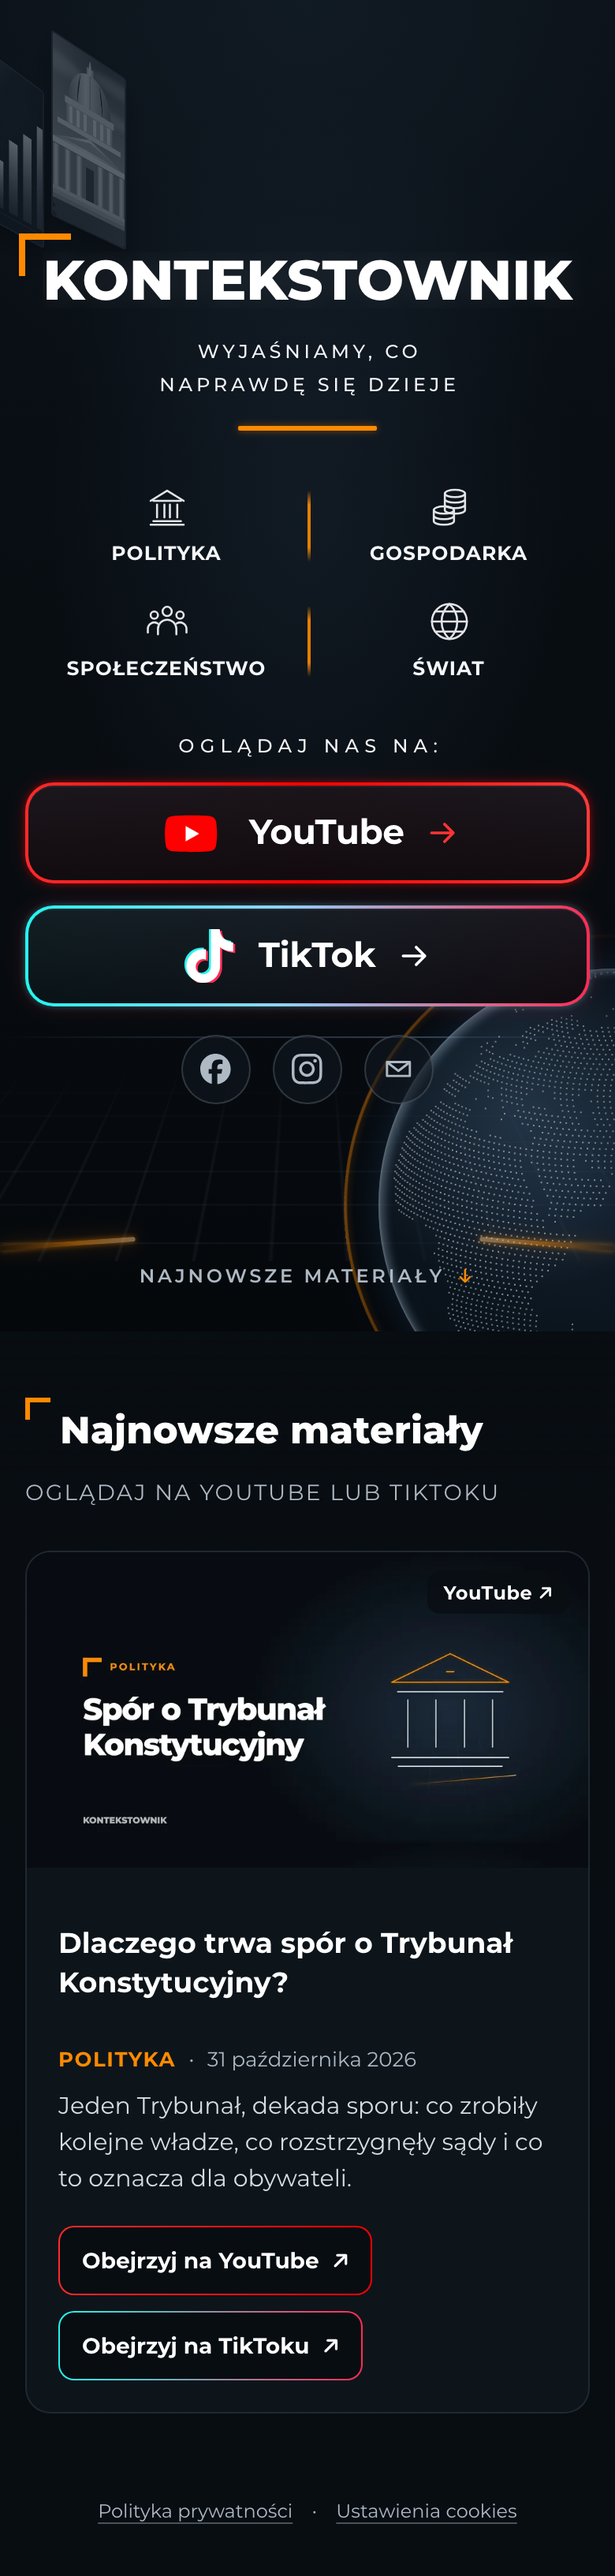
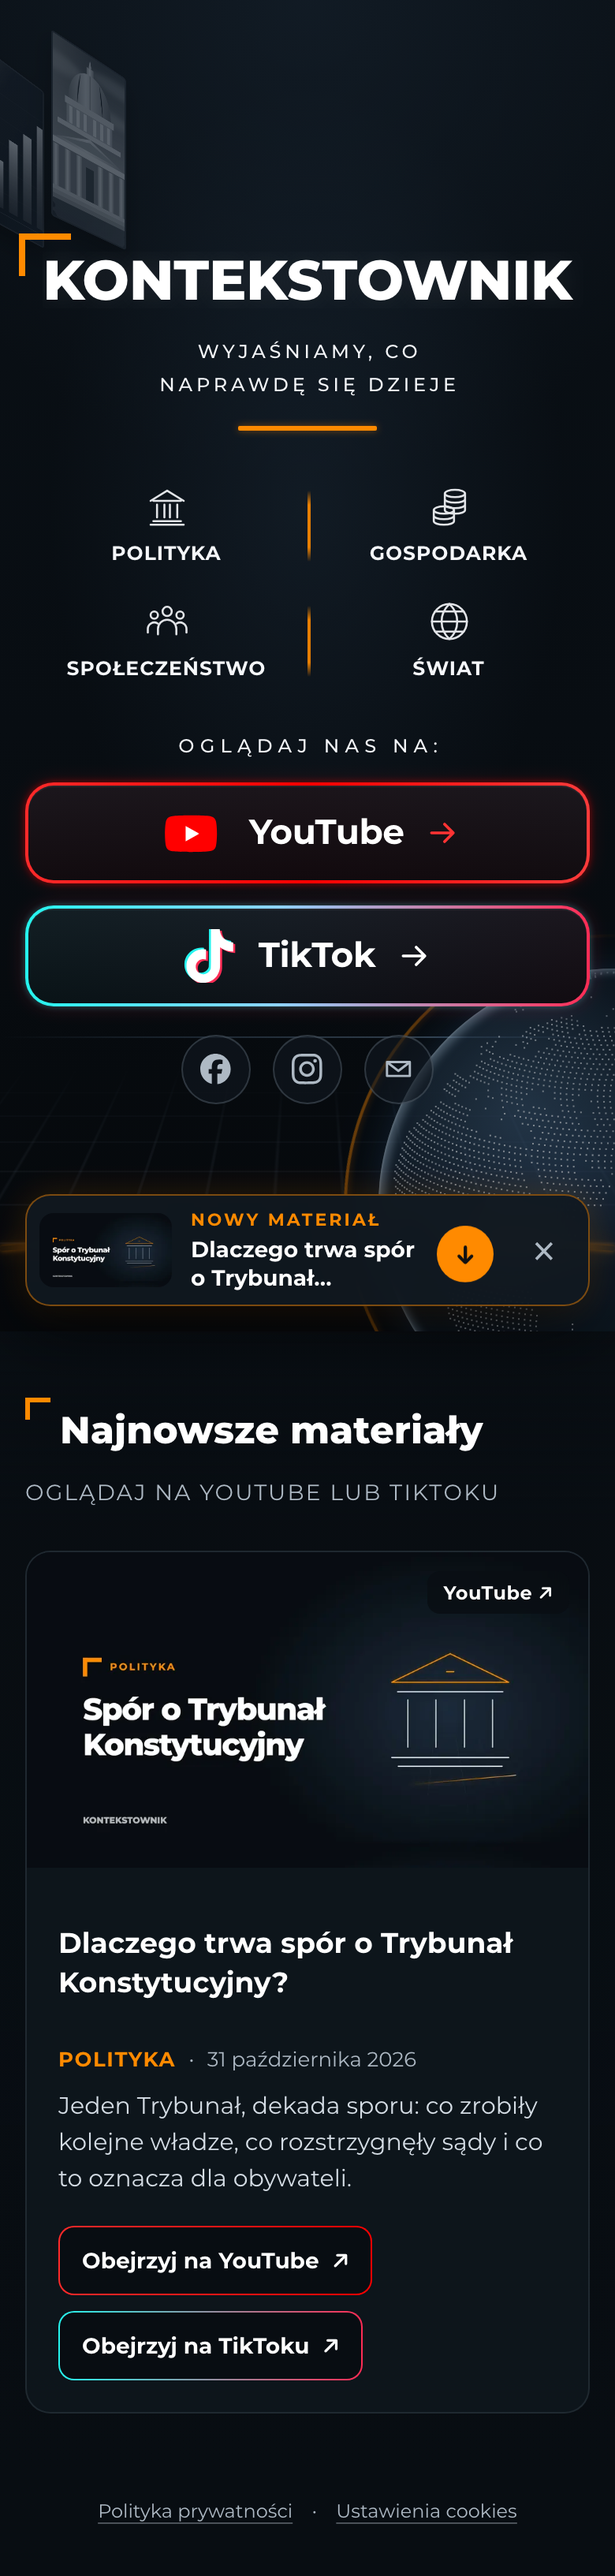
Przyklejony pasek „Nowy materiał ↓” (po decyzji o cookies, znika przy sekcji, × do końca wizyty) zamiast małej strzałki

Changed region(s): [[0.3077, 0.4685, 0.9538, 0.5309], [0.0308, 0.4685, 0.2769, 0.4997]]

diff --git a/src/styles/materials.css b/src/styles/materials.css
@@ -1,26 +1,62 @@
 /* Sekcja „Najnowsze materiały”: karty z okładkami, linki do platform, bez odtwarzania na stronie. */
 .visually-hidden { position: absolute; width: 1px; height: 1px; overflow: hidden; clip: rect(0 0 0 0); white-space: nowrap; }
 
-.scroll-hint {
-  position: absolute;
-  bottom: 44px;
+/* Przyklejony pasek „Nowy materiał ↓” (new-pill.js), pokazywany po zamknięciu banera zgody. */
+.new-pill {
+  position: fixed;
+  z-index: 9;
   left: 50%;
-  transform: translateX(-50%);
-  display: inline-flex;
-  gap: 8px;
+  bottom: max(16px, env(safe-area-inset-bottom));
+  transform: translate(-50%, 0);
+  display: flex;
   align-items: center;
-  font-size: 12px;
-  font-weight: 600;
-  letter-spacing: 0.24em;
-  text-transform: uppercase;
-  color: var(--muted);
-  padding: 10px 6px;
-  white-space: nowrap;
+  gap: 4px;
+  width: min(460px, calc(100vw - 32px));
+  padding: 6px;
+  text-align: left;
+  border-radius: 16px;
+  background: rgb(16 24 32 / 0.92);
+  border: 1px solid rgb(255 138 0 / 0.45);
+  box-shadow: 0 16px 40px rgb(0 0 0 / 0.55), 0 0 22px rgb(255 138 0 / 0.18);
+  -webkit-backdrop-filter: blur(10px);
+  backdrop-filter: blur(10px);
+  transition: opacity 0.35s, transform 0.45s var(--ease-out);
 }
-@media (max-width: 640px) { .scroll-hint { bottom: 18px; letter-spacing: 0.16em; } }
-.scroll-hint span { color: var(--orange); animation: hint 2.4s ease-in-out infinite; }
-@keyframes hint { 50% { transform: translateY(4px); } }
-.scroll-hint:hover { color: var(--white); }
+.new-pill[hidden] { display: none; }
+.new-pill.is-off { opacity: 0; transform: translate(-50%, 24px); pointer-events: none; }
+.new-pill__link { flex: 1; min-width: 0; display: flex; align-items: center; gap: 12px; padding: 2px 6px 2px 2px; border-radius: 12px; }
+.new-pill__thumb { width: 84px; height: auto; aspect-ratio: 16 / 9; border-radius: 9px; object-fit: cover; flex: none; }
+.new-pill__text { min-width: 0; display: flex; flex-direction: column; gap: 3px; }
+.new-pill__label { font-size: 11px; font-weight: 700; letter-spacing: 0.14em; text-transform: uppercase; color: var(--orange); }
+.new-pill__more { color: var(--muted); letter-spacing: 0.04em; }
+.new-pill__title { font-size: 14px; font-weight: 700; line-height: 1.3; color: #fff; overflow: hidden; display: -webkit-box; -webkit-box-orient: vertical; -webkit-line-clamp: 2; }
+.new-pill__go {
+  flex: none;
+  display: grid;
+  place-items: center;
+  width: 36px;
+  height: 36px;
+  border-radius: 50%;
+  background: var(--orange);
+  color: #111;
+  font-weight: 800;
+  animation: pill-bounce 2.2s ease-in-out infinite;
+}
+@keyframes pill-bounce { 50% { transform: translateY(3px); } }
+.new-pill__close {
+  flex: none;
+  width: 44px;
+  height: 44px;
+  border: 0;
+  border-radius: 10px;
+  background: transparent;
+  color: var(--muted);
+  font: 400 24px/1 var(--font);
+  cursor: pointer;
+}
+.new-pill__close:hover { color: #fff; background: rgb(245 247 250 / 0.06); }
+.new-pill__link:hover .new-pill__title { color: var(--orange); }
+@media (max-height: 700px) { .new-pill__thumb { width: 64px; } .new-pill__go { width: 32px; height: 32px; } }
 
 .materials {
   position: relative;
@@ -111,4 +147,4 @@
 /* Stopka pod materiałami zamiast na dole pierwszego ekranu (klasę dodaje plugin w vite.config.js) */
 .legal--static { position: static; padding: 8px 16px 28px; }
 
-@media (prefers-reduced-motion: reduce) { .scroll-hint span { animation: none; } .card, .card:hover { transform: none; } }
+@media (prefers-reduced-motion: reduce) { .new-pill__go { animation: none; } .new-pill { transition: none; } .card, .card:hover { transform: none; } }

diff --git a/src/scripts/new-pill.js b/src/scripts/new-pill.js
@@ -1,0 +1,45 @@
+// Przyklejony pasek „Nowy materiał ↓”: pojawia się chwilę po wejściu (a jeśli jest baner zgody – dopiero
+// po decyzji, żeby na telefonie nie zasłaniać przycisków), znika po dotarciu do sekcji albo po zamknięciu.
+const DISMISS_KEY = 'kontekstownik-pill-closed';
+
+export function initNewPill() {
+  const pill = document.querySelector('[data-new-pill]');
+  const section = document.getElementById('materialy');
+  if (!pill || !section) return;
+  try { if (sessionStorage.getItem(DISMISS_KEY)) return; } catch { /* brak sessionStorage: pokazujemy normalnie */ }
+
+  const reduced = window.matchMedia('(prefers-reduced-motion: reduce)').matches;
+  let done = false;
+
+  const hide = () => {
+    pill.classList.add('is-off');
+    setTimeout(() => { pill.hidden = true; }, reduced ? 0 : 400);
+  };
+  const finish = () => { if (!done) { done = true; hide(); } };
+
+  const banner = document.getElementById('consent');
+  const bannerOpen = () => banner && !banner.hidden;
+  let timeUp = false;
+  const show = () => {
+    if (done || !timeUp || bannerOpen() || !pill.hidden) return;
+    pill.classList.add('is-off');
+    pill.hidden = false;
+    requestAnimationFrame(() => requestAnimationFrame(() => pill.classList.remove('is-off')));
+  };
+  if (banner) new MutationObserver(show).observe(banner, { attributes: true, attributeFilter: ['hidden'] });
+
+  new IntersectionObserver(([e]) => { if (e.isIntersecting) finish(); }, { threshold: 0.15 }).observe(section);
+
+  pill.querySelector('[data-new-pill-link]').addEventListener('click', (e) => {
+    e.preventDefault();
+    section.scrollIntoView({ behavior: reduced ? 'auto' : 'smooth', block: 'start' });
+    section.querySelector('.card__main')?.focus({ preventScroll: true });
+    finish();
+  });
+  pill.querySelector('[data-new-pill-close]').addEventListener('click', () => {
+    try { sessionStorage.setItem(DISMISS_KEY, '1'); } catch { /* tylko na tę stronę */ }
+    finish();
+  });
+
+  setTimeout(() => { timeUp = true; show(); }, reduced ? 0 : 1400);
+}

diff --git a/src/scripts/main.js b/src/scripts/main.js
@@ -10,8 +10,10 @@ import '../styles/responsive.css';
 import '../styles/consent.css';
 import '../styles/materials.css';
 import { initConsent } from './consent.js';
+import { initNewPill } from './new-pill.js';
 
 initConsent();
+initNewPill();
 
 const reducedMotion = window.matchMedia('(prefers-reduced-motion: reduce)');
 
